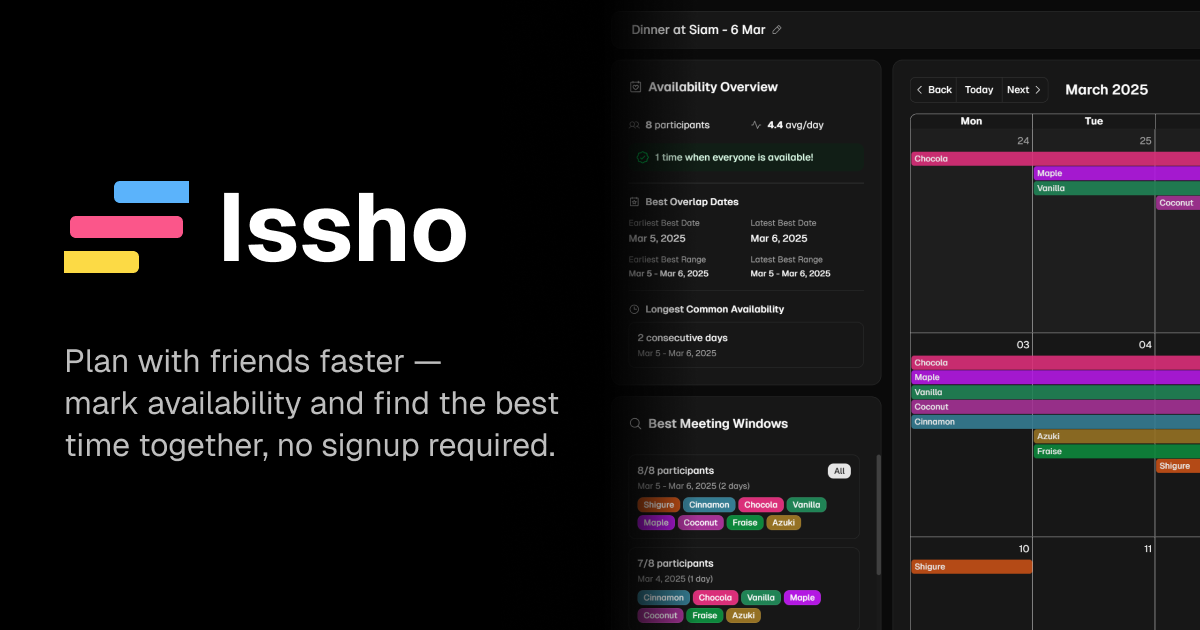
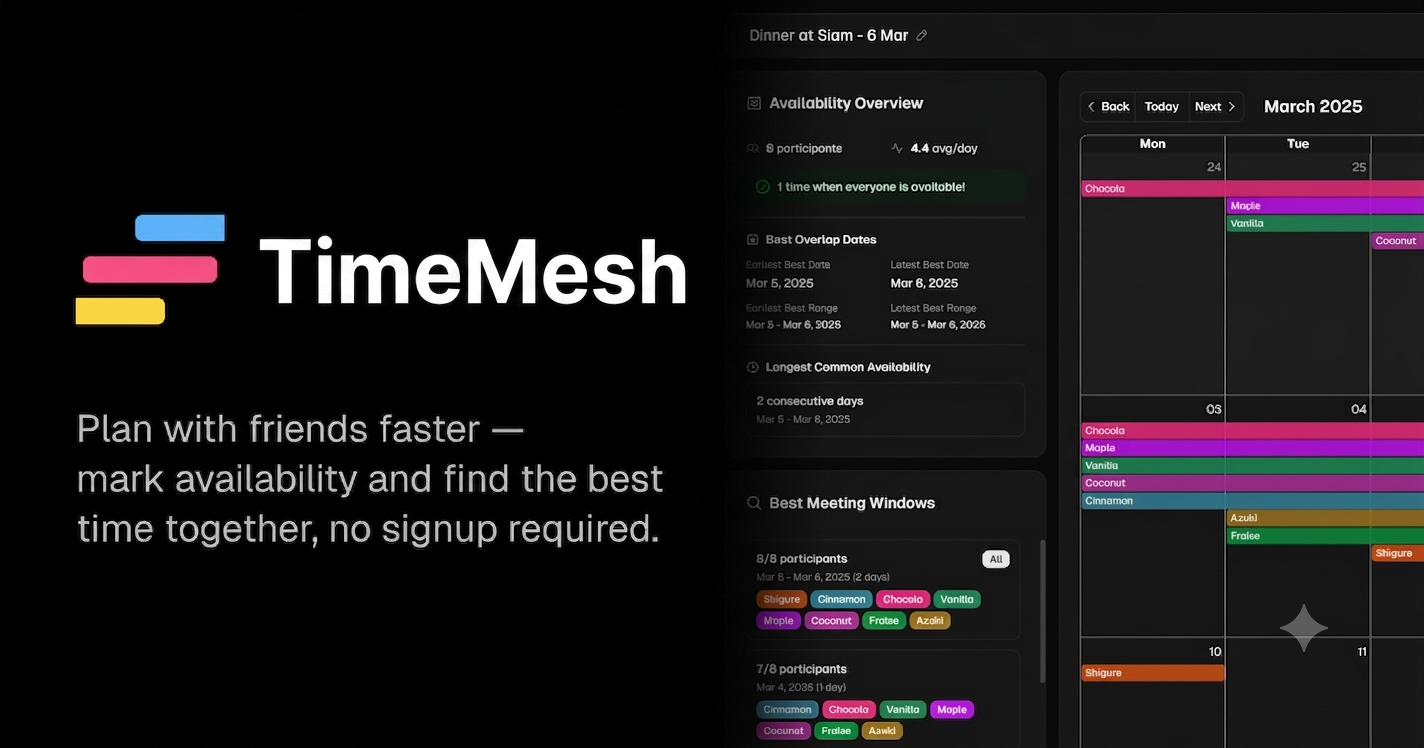
resolve bugs and improve stability

diff --git a/components/help-popup.tsx b/components/help-popup.tsx
@@ -48,7 +48,7 @@ export function HelpPopup() {
             onClick={() => {
               setIsPopoverOpen(false);
               window.open(
-                "https://github.com/dulapahv/Issho/blob/main/README.md",
+                "https://github.com/kunaldasxv/TimeMesh/blob/main/README.md",
                 "_blank"
               );
             }}
@@ -61,7 +61,7 @@ export function HelpPopup() {
             className="justify-start rounded-sm"
             onClick={() => {
               setIsPopoverOpen(false);
-              window.open("https://github.com/dulapahv/Issho", "_blank");
+              window.open("https://github.com/kunaldasxv/TimeMesh", "_blank");
             }}
             variant="ghost"
           >
@@ -72,11 +72,11 @@ export function HelpPopup() {
             With 💕 from{" "}
             <Link
               className="underline"
-              href="https://dulapahv.dev"
+              href="https://kunaldasxv.dev"
               rel="noreferrer"
               target="_blank"
             >
-              dulapahv
+              kunaldasxv
             </Link>
           </p>
         </div>

diff --git a/lib/constants.ts b/lib/constants.ts
@@ -4,15 +4,15 @@ export const IS_DEV_ENV =
   process.env.NODE_ENV === "development";
 export const BASE_URL = IS_DEV_ENV
   ? "http://localhost:3000"
-  : "https://issho.dulapahv.dev";
+  : "https://TimeMesh.kunaldasxv.dev";
 
-export const NAME = "Issho";
+export const NAME = "TimeMesh";
 export const DESCRIPTION =
   "Plan with friends, faster — mark availability and find the best time together, no signup required.";
-export const AUTHOR_NAME = "Dulapah Vibulsanti";
-export const AUTHOR_BASE_URL = "https://dulapahv.dev";
-export const AUTHOR_TWITTER_HANDLE = "@dulapahv";
-export const CONTACT_URL = "https://dulapahv.dev/contact";
+export const AUTHOR_NAME = "Kunal Das";
+export const AUTHOR_BASE_URL = "https://kunaldasxv.dev";
+export const AUTHOR_TWITTER_HANDLE = "@kunaldasxv";
+export const CONTACT_URL = "https://kunaldasxv.dev/contact";
 
 // Validation limits
 export const VALIDATION = {

diff --git a/components/welcome-screen.tsx b/components/welcome-screen.tsx
@@ -124,7 +124,7 @@ export function WelcomeScreen() {
           <div className="mb-8 lg:mb-12">
             <div className="mb-6">
               <h1 className="bg-linear-to-r from-primary to-primary/60 bg-clip-text font-bold text-4xl text-transparent lg:text-5xl">
-                Issho
+                TimeMesh
               </h1>
               <p className="mt-3 text-lg text-muted-foreground">
                 Plan with friends faster — mark availability and find the best

diff --git a/components/share-dialog.tsx b/components/share-dialog.tsx
@@ -53,7 +53,7 @@ export function ShareDialog({
 
   const calendarUrl = `${window.location.origin}/calendar/${calendarId}?pin=${pin}`;
 
-  const shareMessage = `📅 Join my calendar on Issho!
+  const shareMessage = `📅 Join my calendar on TimeMesh!
 
 🔗 Invite URL: ${calendarUrl}
 

diff --git a/lib/settings-store.ts b/lib/settings-store.ts
@@ -1,6 +1,6 @@
 import { create } from "zustand";
 
-const STORAGE_KEY = "issho-settings";
+const STORAGE_KEY = "TimeMesh-settings";
 
 interface SettingsState {
   timeFormat: "12h" | "24h";

diff --git a/README.md b/README.md
@@ -1,7 +1,7 @@
-# Issho: Plan with friends, faster
+# TimeMesh: Plan with friends, faster
 
 <div align="center">
-  <a href="https://issho.dulapahv.dev/">
+  <a href="https://TimeMesh.kunaldasxv.dev/">
     <img src="public/cover.png" width="630" alt="codex cover image"/>
   </a>
 </div>
@@ -9,14 +9,14 @@
 <br />
 
 <div align="center">
-  <a href="https://github.com/dulapahv/Issho/issues"><img src="https://img.shields.io/github/issues/dulapahv/Issho.svg?style=flat" />
+  <a href="https://github.com/kunaldasxv/TimeMesh/issues"><img src="https://img.shields.io/github/issues/kunaldasxv/TimeMesh.svg?style=flat" />
 </div>
 
 <br />
 
-✨ **Try now at [issho.dulapahv.dev](https://issho.dulapahv.dev)**
+✨ **Try now at [TimeMesh.kunaldasxv.dev](https://TimeMesh.kunaldasxv.dev)**
 
-Issho (一緒) means "together" in Japanese - and that's exactly what this app is about. It's a real-time collaborative calendar that lets you and your friends visually mark your availability and instantly find the perfect time to meet, without the endless back-and-forth messages, polls, or creating yet another account.
+TimeMesh is a real-time collaborative calendar that lets you and your friends visually mark your availability and instantly find the perfect time to meet, without the endless back-and-forth messages, polls, or creating yet another account.
 
 ## Features
 
@@ -50,7 +50,7 @@ Issho (一緒) means "together" in Japanese - and that's exactly what this app i
 ### Project Structure
 
 ```txt
-Issho
+TimeMesh
 ├── app/                           # Next.js app router
 │   ├── api/                       # API routes
 │   │   ├── calendar/              # Calendar endpoints
@@ -84,8 +84,8 @@ Issho
 1. Clone the repository:
 
    ```bash
-   git clone https://github.com/dulapahv/issho.git
-   cd issho
+   git clone https://github.com/kunaldasxv/TimeMesh.git
+   cd TimeMesh
    ```
 
 2. Install dependencies:
@@ -198,10 +198,10 @@ This project is licensed under the Apache-2.0 License - see the [LICENSE](/LICEN
 
 ## Author
 
-**Dulapah Vibulsanti**
+**Kunal Das**
 
-- Website: [dulapahv.dev](https://dulapahv.dev)
-- GitHub: [@dulapahv](https://github.com/dulapahv)
+- Website: [kunaldasxv.dev](https://kunaldasxv.dev)
+- GitHub: [@kunaldasxv](https://github.com/kunaldasxv)
 
 ## Acknowledgments
 
@@ -212,4 +212,4 @@ This project is licensed under the Apache-2.0 License - see the [LICENSE](/LICEN
 
 ## Support
 
-For support, please [open an issue](https://github.com/dulapahv/Issho/issues) or contact me at [dulapahv.dev/contact](https://dulapahv.dev/contact).
+For support, please [open an issue](https://github.com/kunaldasxv/TimeMesh/issues) or contact me at [kunaldasxv.dev/contact](https://kunaldasxv.dev/contact).
